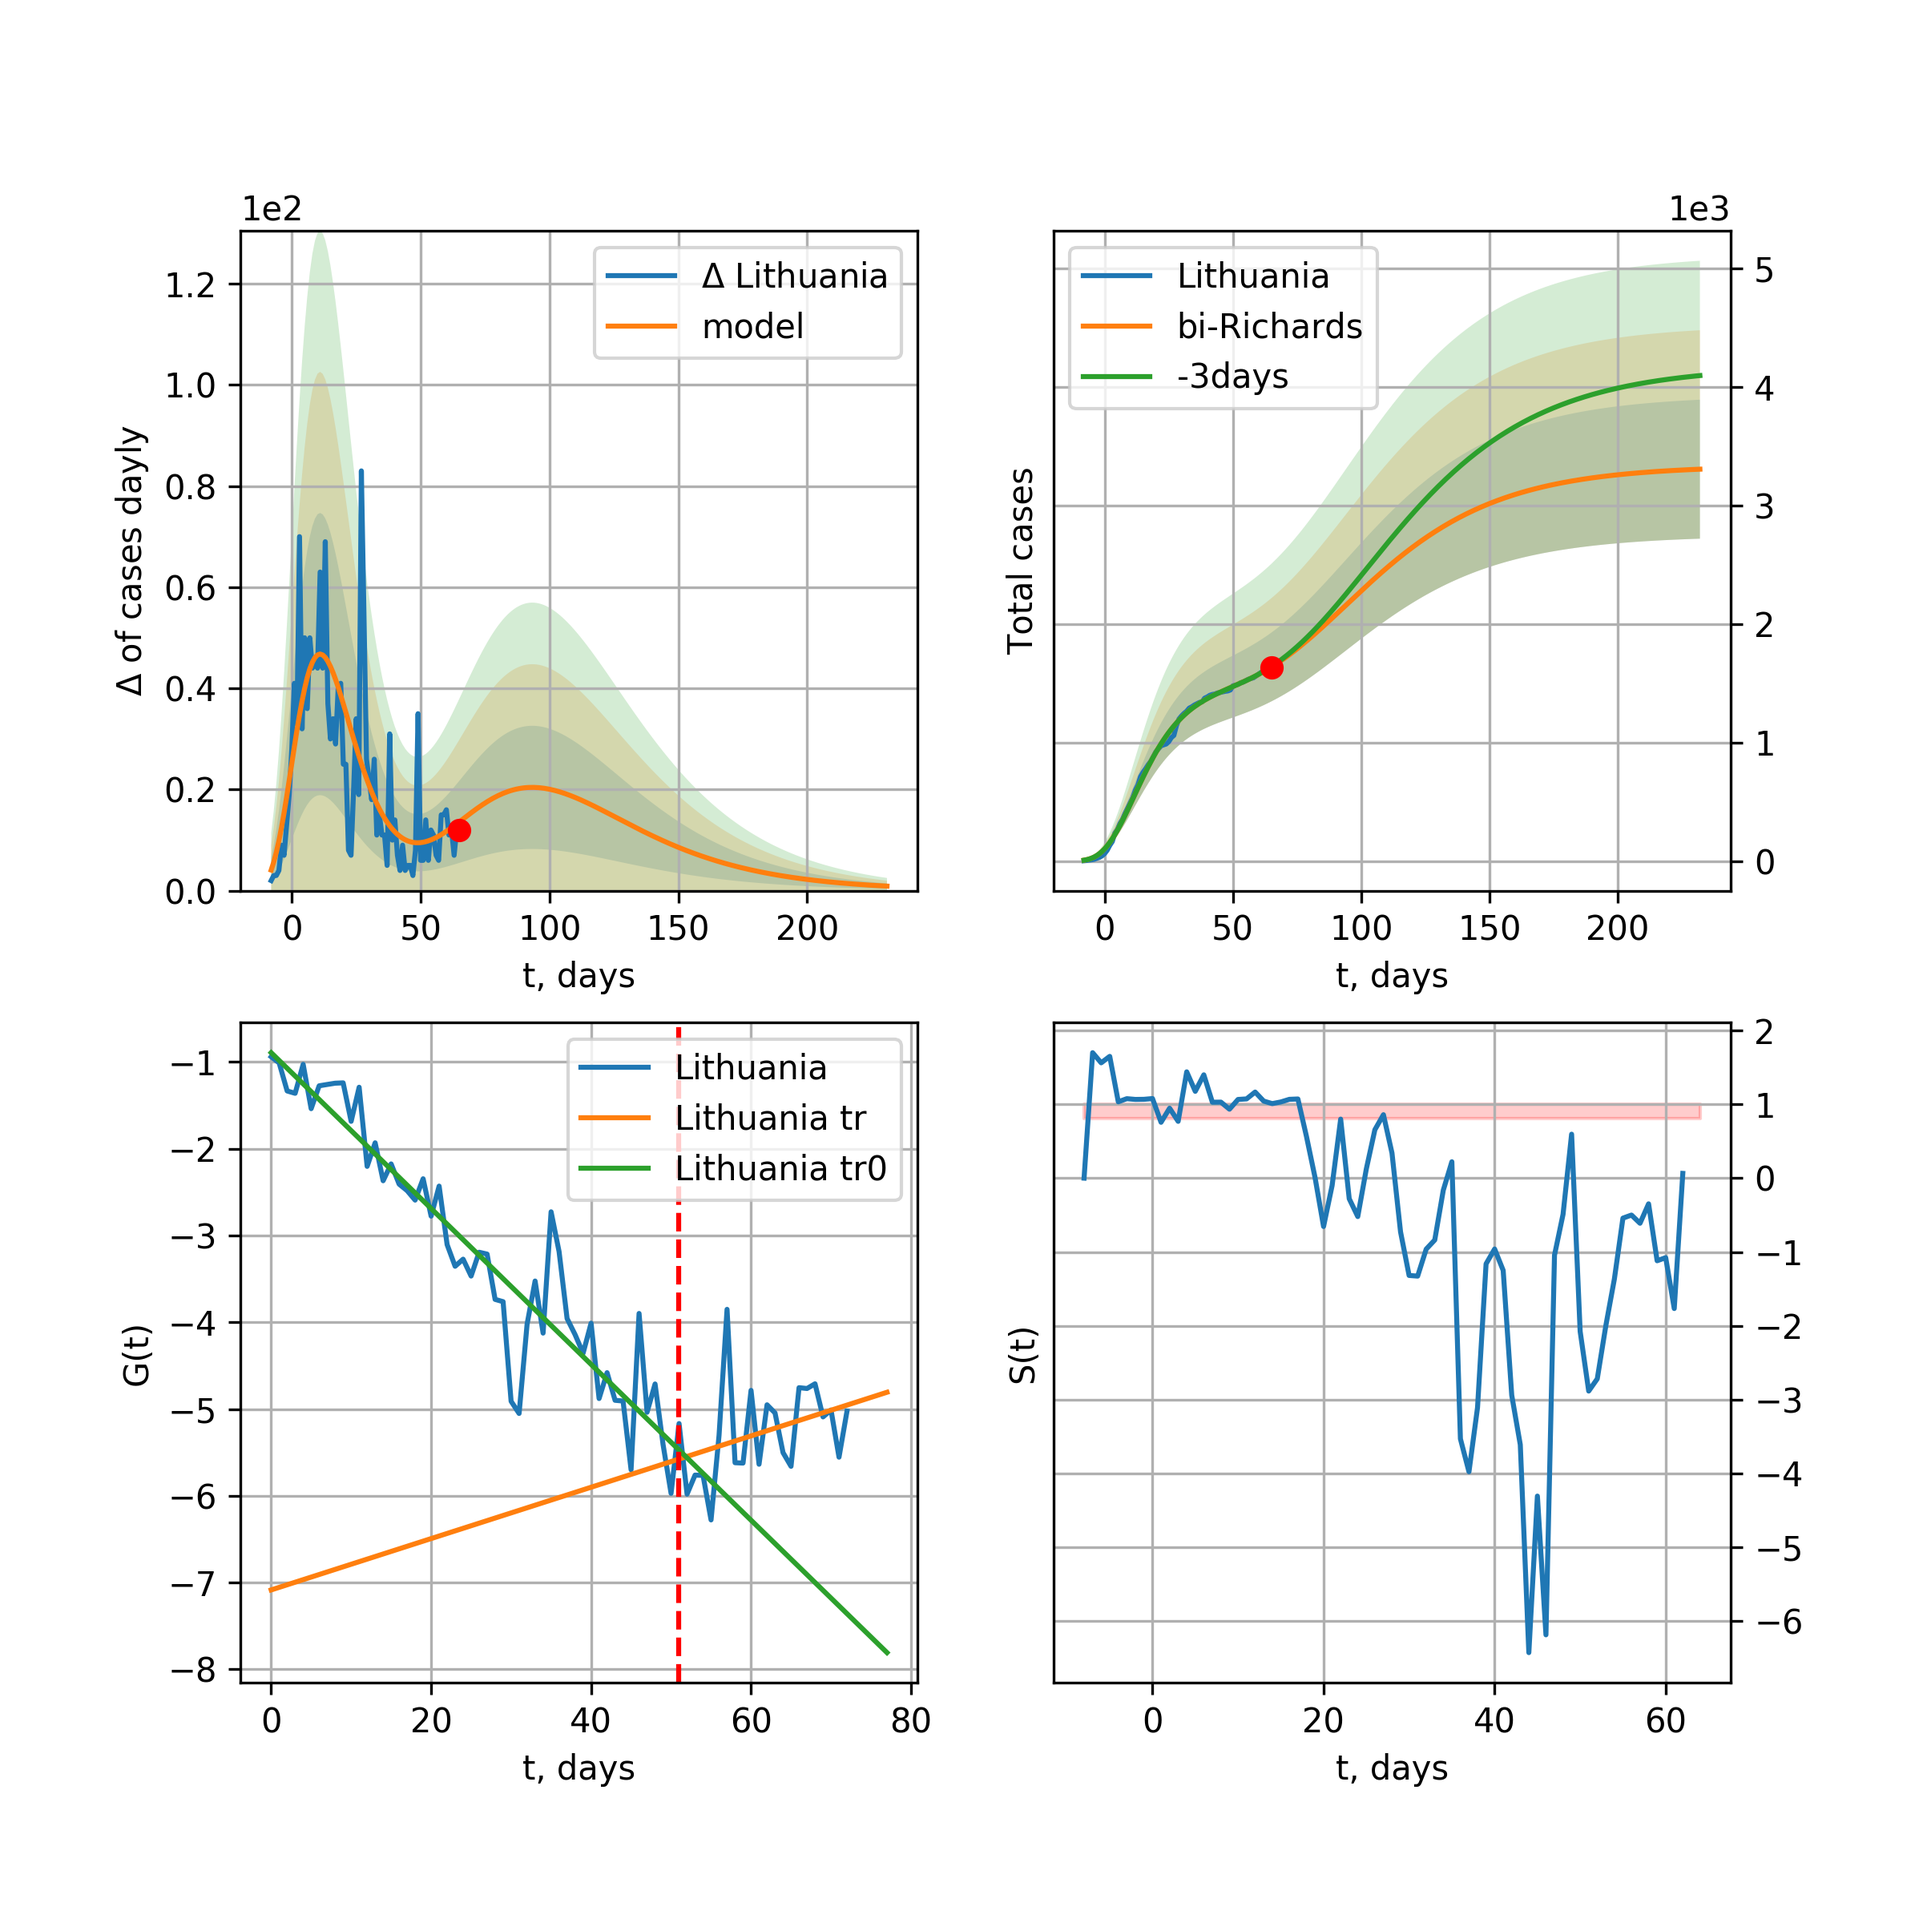
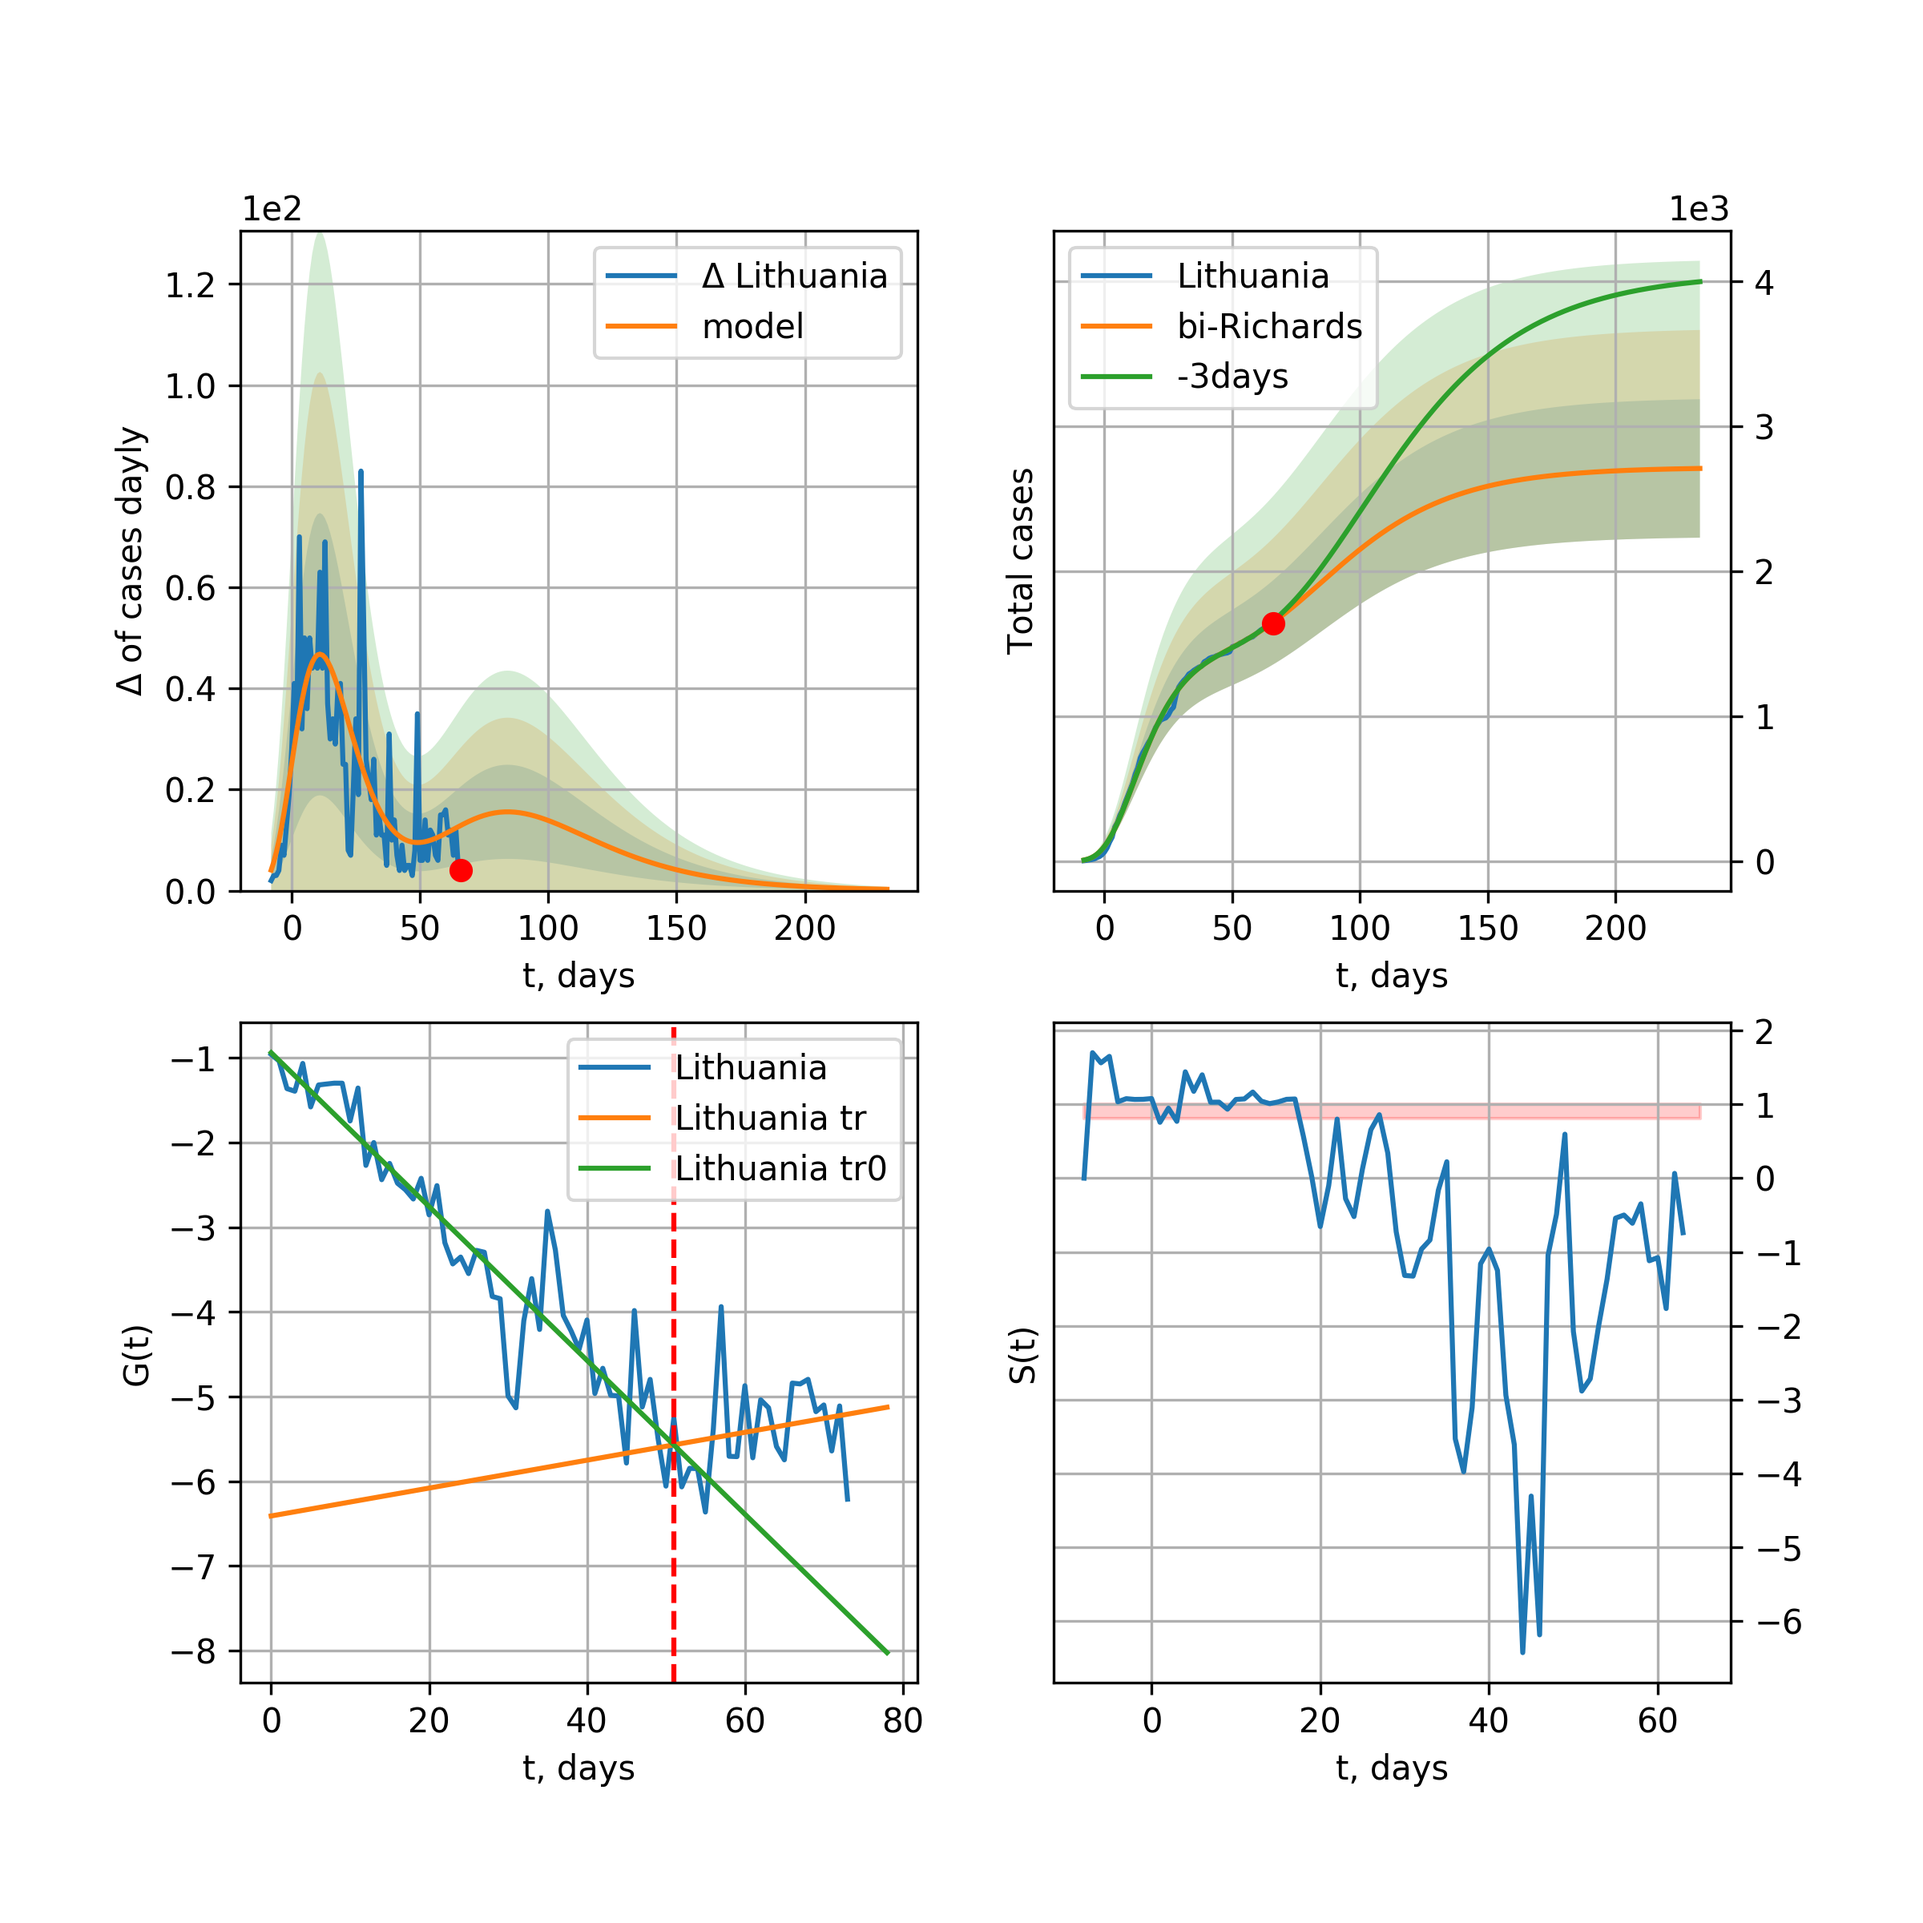
LT renew 2020-05-25

diff --git a/_site/index.html b/_site/index.html
@@ -1424,20 +1424,20 @@ trend coefficient of determination: 0.917164 <br />
     <img src="pictures/covidcasesLithuania36_R.png" alt="hi" class="inline"/><br /> 
 
       Lithuania data at: 2020-05-25<br />
-+3 day model MAPE: 0.002655<br />
++3 day model MAPE: 0.007156<br />
 model: bi-Richards<br />
-coeffs: [ 1.86058931e+03  2.02918033e+00 -4.66567459e+01  1.47416640e-02]<br />
-rational stdev: 0.177302<br />
+coeffs: [ 1.23979823e+03  1.28396278e+00 -2.03716417e+01  2.66196745e-02]<br />
+rational stdev: 0.176284<br />
 forecast at the end of period: +167 days<br />
 	 deltaDaycases: 0<br />
-	 total cases: 3307 ± 586<br />
-	 total death: 127 ± 67<br />
+	 total cases: 2708 ± 477<br />
+	 total death: 104 ± 55<br />
 bi-Richards approximation splitting point: 51<br />
-trend coefficient of determination: 0.887944 <br />
- intercept: -0.893387 <br />
- slope: -0.089796<br />trend coefficient of determination: 0.127387 <br />
- intercept: -7.085041 <br />
- slope: 0.029585<br />
+trend coefficient of determination: 0.890059 <br />
+ intercept: -0.938828 <br />
+ slope: -0.090848<br />trend coefficient of determination: 0.040423 <br />
+ intercept: -6.410762 <br />
+ slope: 0.016465<br />
           <br /> 
     
     Latvia
